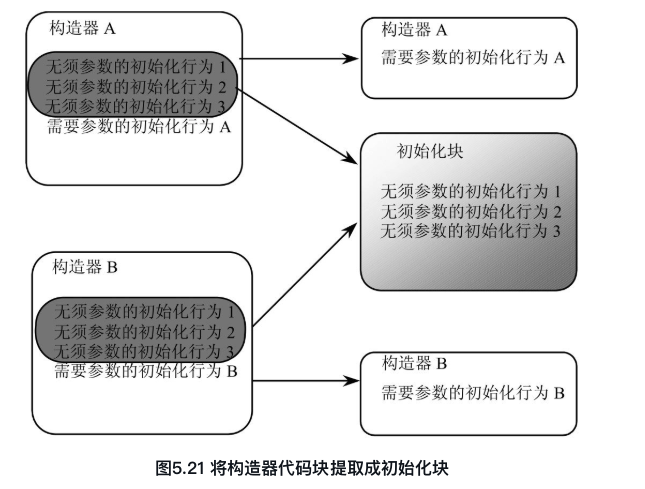
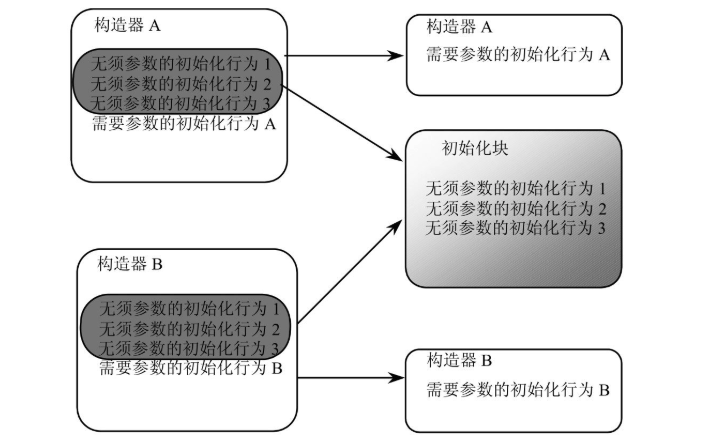
update

diff --git a/source/_posts/java-3-1-初始化块.md b/source/_posts/java-3-1-初始化块.md
@@ -1,0 +1,181 @@
+---
+title: Java-基础篇-初始化块
+date: 2019-10-15 20:19:48
+tags:
+ - Java
+categories:
+ - 后端编程
+---
+# 1.什么是初始化块
+Java使用构造器来对单个对象进行初始化操作，使用构造器先完成整个Java对象的状态初始化，然后将Java对象返回给程序，从而让该Java对象的信息更加完整。<font color=green>与构造器作用非常类似的是初始化块，它也可以对Java对象进行初始化操作
+
+
+# 2. 使用初始化块
+`初始化块是Java类里可出现的第4种成员（前面依次有Field、方法和构造器）。`
+
+## 2.1 语法
+```java
+ [修饰符] {
+     // todo 可执行性代码
+ }
+```
+
+**@注意:**
+- 一个类里可以有多个初始化块，相同类型的初始化块之间有顺序:前面定义的初始化块先执行，后面定义的初始化块后执行。
+- 初始化块的修饰符只能是static，使用static修饰的初始化块被称为静态初始化块。
+- 初始化块里的代码可以包含任何可执行性语句，包括定义局部变量、调用其他对象的方法，以及使用分支、循环语句等。
+- 初始化块虽然也是Java类的一种成员，但它没有名字，也就没有标识，因此无法通过类、对象来调用初始化块。
+- 初始化块只在创建Java对象时隐式执行，而且在执行构造器之前执行
+
+## 2.2 示例
+
+定义一个类,然后实例化该类
+
+```
+package com.hui.javalearn.classes;
+
+/**
+ * description : 初始化块使用
+ *
+ * @author : Mr.Liuqh
+ * @date : 2019-12-31 11:57
+ */
+public class StaticUseOne {
+    /**
+    *  定义一个静态成员
+    */
+    private  int num;
+
+    /*
+    * 定义第一个初始化块
+    */
+    {
+        // 对成员变量赋值
+        num = 11;
+        System.out.println("第一个初始化块，输出: " + num);
+    }
+
+    /*
+     * 定义第二个初始化块
+     */
+    {
+        System.out.println("第二个初始化块，输出: " + num);
+    }
+
+    /**
+    *  无参构造方法
+    */
+    public StaticUseOne(){
+        System.out.println("无参构造方法输出: " + num);
+    }
+
+}
+
+...
+
+// 测试
+new StaticUseOne();
+
+/*
+输出:
+第一个初始化块，输出: 11
+第二个初始化块，输出: 11
+无参构造方法输出: 11
+```
+[查看源码](https://github.com/52lu/java-learn/blob/master/src/main/java/com/hui/javalearn/classes/StaticUseOne.java)
+
+
+> <font color=orange>虽然Java允许一个类里定义2个普通初始化块，但这没有任何意义。因为初始化块是在创建Java对象时隐式执行的，而且它们总是全部执行，因此我们完全可以把多个普通初始化块合并成一个初始化块，从而可以让程序更加简洁，可读性更强
+
+
+
+# 3.静态初始化块
+如果定义初始化块时使用了static修饰符，则这个初始化块就变成了静态初始化块，也被称为类初始化块。
+
+<font color=red>静态初始化块是类相关的，系统将在类初始化阶段执行静态初始化块，而不是在创建对象时才执行。因此静态初始化块总是比普通初始化块先执行。
+
+
+## 3.1 示例
+
+```
+package com.hui.javalearn.classes;
+
+/**
+ * description : 静态初始化块使用
+ *
+ * @author : Mr.Liuqh
+ * @date : 2019-12-31 11:57
+ */
+public class StaticUseTwo {
+    /**
+    *  定义一个静态成员
+    */
+    private static int num;
+
+    /**
+     *  定义一个非静态成员
+     */
+    private int total;
+
+    /*
+     * 定义一个初始化块，
+     *
+     * 注意: 虽然它是第一个被定义的初始化块，但不会第一个执行。
+     */
+    {
+        // 给非静态成员赋值
+        total = 100;
+        System.out.println("这是一个非静态初始化块，输出: num = " + num);
+        System.out.println("这是一个非静态初始化块，输出: total = " + total);
+    }
+
+    /*
+    * 定义第一个静态初始化块
+    *
+    * 注意: 会第一个执行！！
+    */
+    static {
+        // 对静态成员变量赋值
+        num = 11;
+        System.out.println("这是一个静态初始化块，输出: " + num);
+    }
+
+    /**
+    *  无参构造方法
+    */
+    public StaticUseTwo(){
+        System.out.println("无参构造方法输出: " + num);
+    }
+
+}
+
+// 测试
+new StaticUseTwo();
+
+/* 
+输出:
+这是一个静态初始化块，输出: 11
+这是一个非静态初始化块，输出: num = 11
+这是一个非静态初始化块，输出: total = 100
+无参构造方法输出: 11
+```
+[查看源码](https://github.com/52lu/java-learn/blob/master/src/main/java/com/hui/javalearn/classes/StaticUseTwo.java)
+
+## 3.2 总结
+
+- 静态初始化块总是比普通初始化块先执行。
+- 静态初始化不能访问非静态成员，也不能访问实例Field和实例方法。
+
+
+
+# 4. 使用场景
+从某种程度上来看，初始化块是构造器的补充，初始化块总是在构造器执行之前执行。
+
+<font color=red>与构造器不同的是，初始化块是一段固定执行的代码，它不能接收任何参数。</font>因此初始化块对同一个类的所有对象所进行的初始化处理完全相同。基于这个原因，不难发现初始化块的基本用法，<font color=green>如果有一段初始化处理代码对所有对象完全相同，且无须接收任何参数，就可以把这段初始化处理代码提取到初始化块中.
+
+
+## 4.1 示例
+如果两个构造器中有相同的初始化代码，这些初始化代码无须接收参数，就可以把它们放在初始化块中定义，如下图所示:
+
+
+![](https://52lu.github.io/images/java/static-use-scenes.png)
